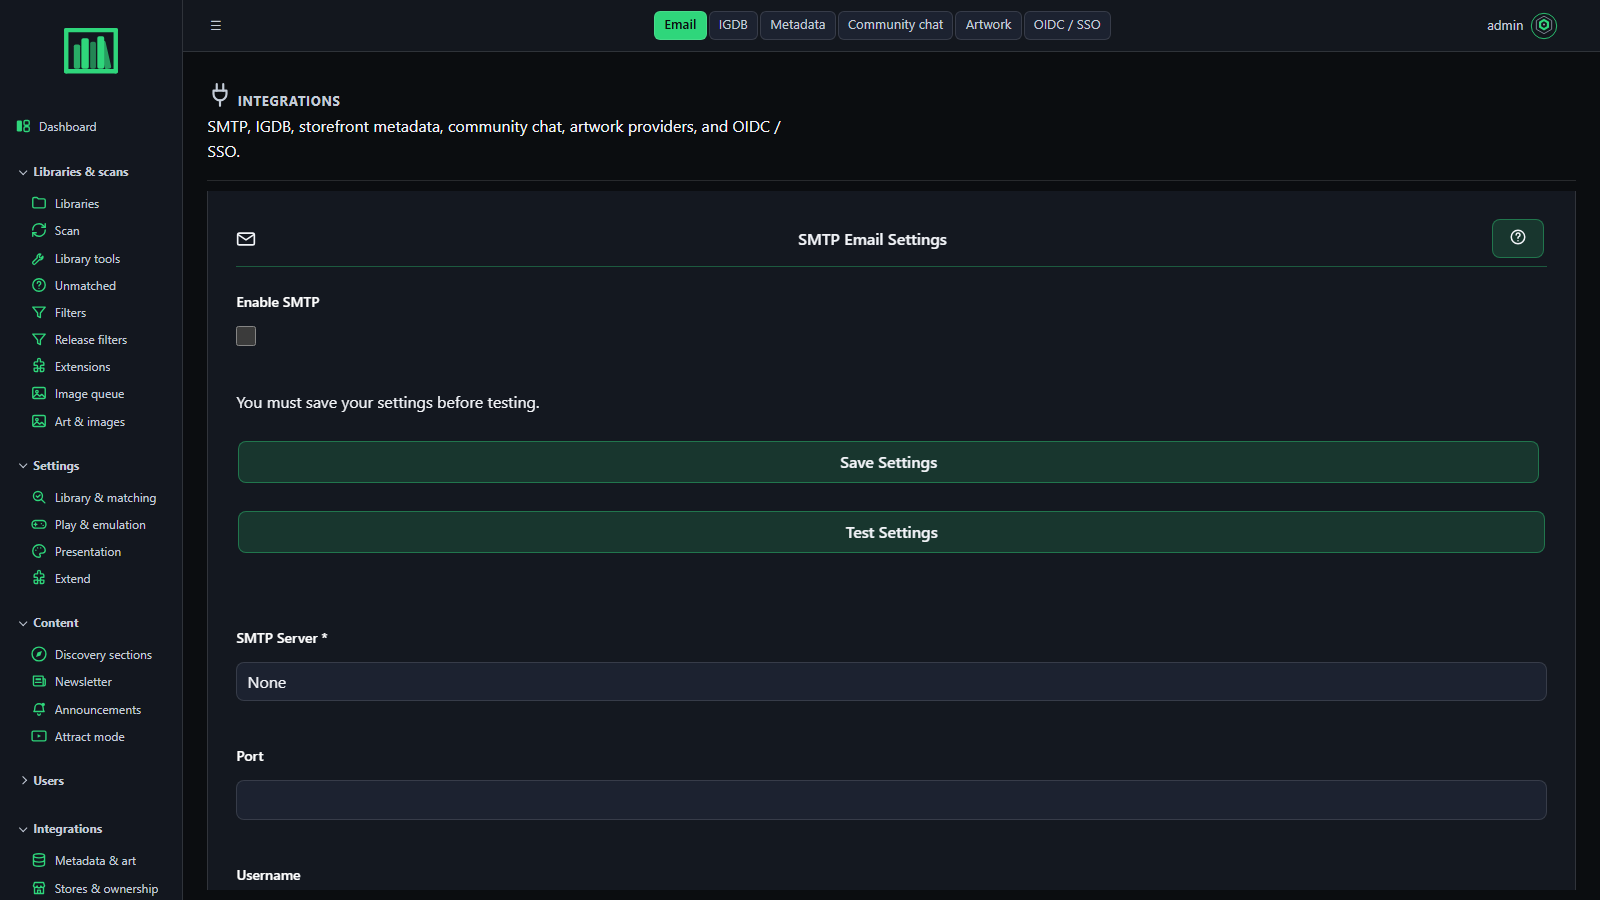
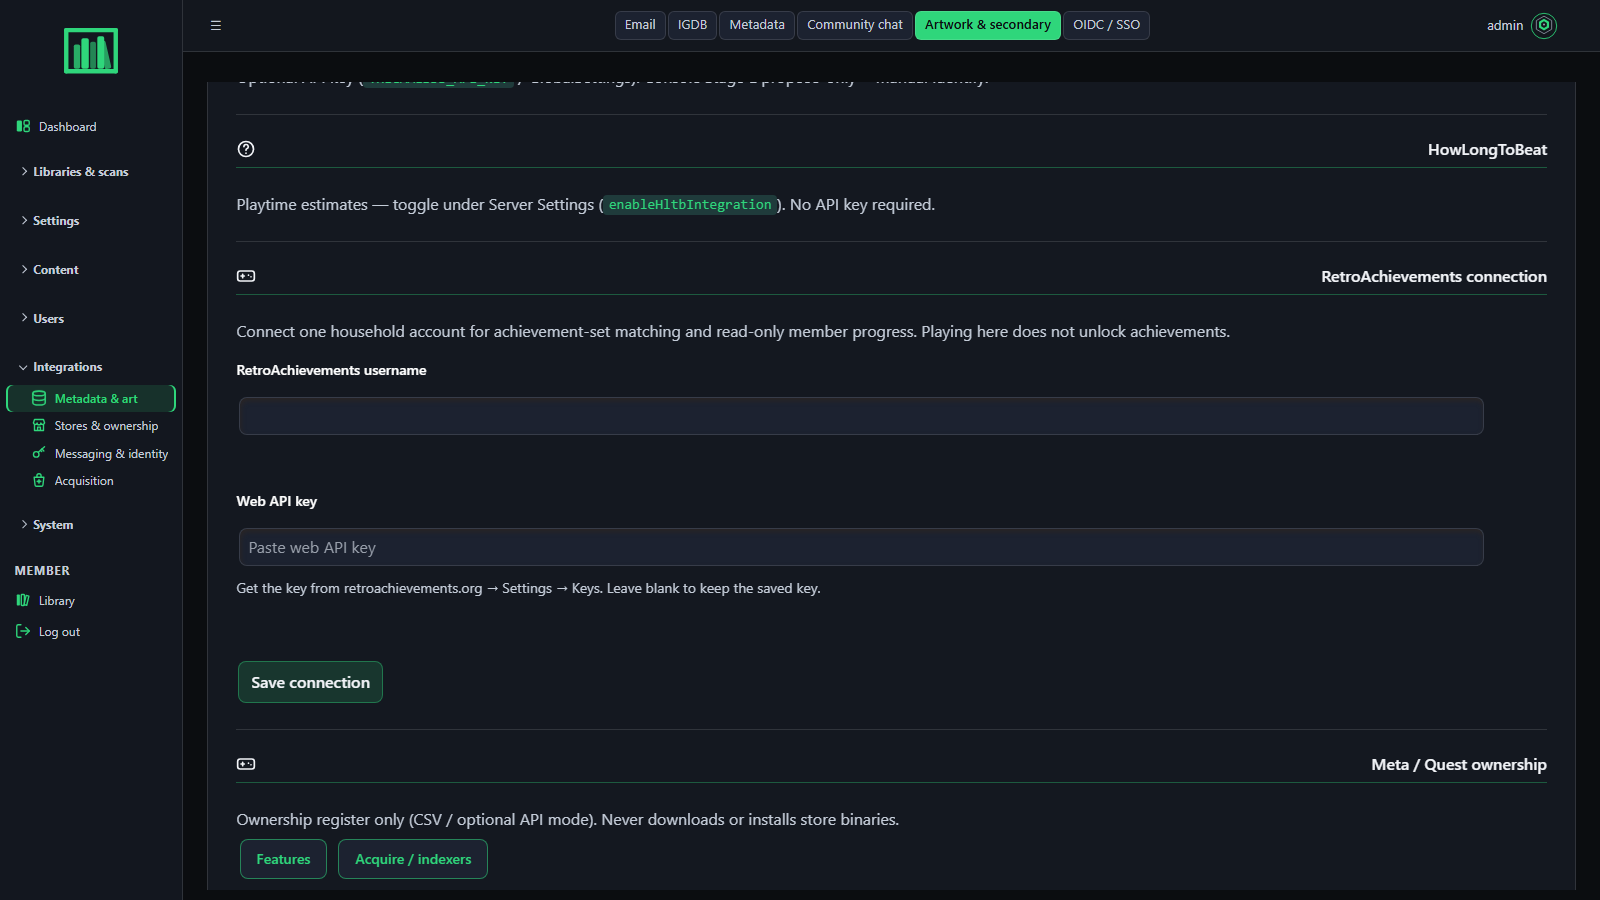
fix(integrations): keep RetroAchievements under artwork

diff --git a/oneirodex/templates/admin/integrations.html b/oneirodex/templates/admin/integrations.html
@@ -36,7 +36,7 @@
                ('igdb', 'IGDB', '#igdb', 'igdb-tab'),
                ('metadata', 'Metadata', '#metadata', 'metadata-tab'),
                ('community', 'Community chat', '#community', 'community-tab'),
-               ('artwork', 'Artwork', '#artwork', 'artwork-tab'),
+               ('artwork', 'Artwork & secondary', '#artwork', 'artwork-tab'),
                ('oidc', 'OIDC / SSO', '#oidc', 'oidc-tab'),
              ],
              active=none,
@@ -96,7 +96,7 @@
             </li>
             <li class="integrations-nav-item nav-item" role="presentation">
                 <button class="integrations-nav-link nav-link" id="artwork-tab" data-bs-toggle="tab" data-bs-target="#artwork" type="button" role="tab" aria-controls="artwork" aria-selected="false">
-                    {{ icons.icon('image') }} Artwork
+                    {{ icons.icon('image') }} Artwork &amp; secondary
                 </button>
             </li>
             <li class="integrations-nav-item nav-item" role="presentation">
@@ -164,6 +164,15 @@
                     <h4 id="steamgriddb">{{ icons.icon('image', size=20) }} SteamGridDB Artwork</h4>
                     {% include 'partials/integrations/steamgriddb_status.html' %}
 
+                    <p class="text-muted mb-2">
+                      Secondary metadata keys and HowLongToBeat are managed in Server Settings.
+                    </p>
+                    <p>
+                      <a class="btn btn-outline-primary btn-sm" href="{{ url_for('admin2.new_server_settings') }}">
+                        Server settings
+                      </a>
+                    </p>
+
                     <hr class="my-4">
                     <h4 id="giantbomb">{{ icons.icon('gamepad', size=20) }} Giant Bomb</h4>
                     <p class="text-muted mb-2">
@@ -171,47 +180,52 @@
                       (<code>GIANTBOMB_API_KEY</code> / GlobalSettings) — deep-linked from
                       Integrations inventory.
                     </p>
-                    <p>
-                      <a class="btn btn-outline-primary btn-sm" href="{{ url_for('admin2.new_server_settings') }}">
-                        Server settings
-                      </a>
-                    </p>
-
                     <hr class="my-4">
                     <h4 id="mobygames">{{ icons.icon('gamepad', size=20) }} MobyGames</h4>
                     <p class="text-muted mb-2">
                       Optional API key (<code>MOBYGAMES_API_KEY</code> / GlobalSettings).
                       Stage E propose-only + manual identify — not Stage D auto-import.
                     </p>
-                    <p>
-                      <a class="btn btn-outline-primary btn-sm" href="{{ url_for('admin2.new_server_settings') }}">
-                        Server settings
-                      </a>
-                    </p>
-
                     <hr class="my-4">
                     <h4 id="thegamesdb">{{ icons.icon('gamepad', size=20) }} TheGamesDB</h4>
                     <p class="text-muted mb-2">
                       Optional API key (<code>THEGAMESDB_API_KEY</code> / GlobalSettings).
                       Console Stage E propose-only + manual identify.
                     </p>
-                    <p>
-                      <a class="btn btn-outline-primary btn-sm" href="{{ url_for('admin2.new_server_settings') }}">
-                        Server settings
-                      </a>
-                    </p>
-
                     <hr class="my-4">
                     <h4 id="hltb">{{ icons.icon('help', size=20) }} HowLongToBeat</h4>
                     <p class="text-muted mb-2">
                       Playtime estimates — toggle under Server Settings
                       (<code>enableHltbIntegration</code>). No API key required.
                     </p>
-                    <p>
-                      <a class="btn btn-outline-primary btn-sm" href="{{ url_for('admin2.new_server_settings') }}">
-                        Server settings
-                      </a>
-                    </p>
+
+                    <hr class="my-4">
+                    <section id="retroachievements" aria-labelledby="retroachievements-heading">
+                      <h4 id="retroachievements-heading">{{ icons.icon('gamepad', size=20) }} RetroAchievements connection</h4>
+                      <p class="text-muted mb-3">
+                        Connect one household account for achievement-set matching and read-only member progress.
+                        Playing here does not unlock achievements.
+                      </p>
+                      <div class="settings-form" id="retroAchievementsSettings">
+                        <div class="form-group">
+                          <label for="ra-admin-username">RetroAchievements username</label>
+                          <input type="text" id="ra-admin-username" class="form-control input-glass" autocomplete="username" maxlength="64">
+                          <small id="ra-username-source" class="text-muted"></small>
+                        </div>
+                        <div class="form-group">
+                          <label for="ra-admin-api-key">Web API key</label>
+                          <input type="password" id="ra-admin-api-key" class="form-control input-glass" autocomplete="new-password" maxlength="512">
+                          <small class="text-muted">Get the key from retroachievements.org → Settings → Keys. Leave blank to keep the saved key.</small>
+                        </div>
+                        <label class="form-group" id="ra-clear-key-row" hidden>
+                          <input type="checkbox" id="ra-clear-key"> Clear the saved API key
+                        </label>
+                        <div class="button-group">
+                          <button type="button" id="ra-save-settings" class="btn btn-primary">Save connection</button>
+                          <span id="ra-save-status" class="text-muted" role="status" aria-live="polite"></span>
+                        </div>
+                      </div>
+                    </section>
 
                     <hr class="my-4">
                     <h4 id="meta_quest">{{ icons.icon('gamepad', size=20) }} Meta / Quest ownership</h4>
@@ -342,6 +356,7 @@
 <script src="{{ 'js/password_visibility.js'|theme_asset }}"></script>
 <script src="{{ 'js/admin_manage_igdb_settings.js'|theme_asset }}"></script>
 <script src="{{ 'js/admin_metadata_providers.js'|theme_asset }}"></script>
+<script src="{{ 'js/admin_retroachievements_settings.js'|theme_asset }}"></script>
 <script src="{{ 'js/integrations_tabs.js'|theme_asset }}"></script>
 
 <script src="{{ url_for('static', filename='js/od_admin_integrations_oidc.js') }}"></script>

diff --git a/oneirodex/setup/default_theme/js/admin_retroachievements_settings.js b/oneirodex/setup/default_theme/js/admin_retroachievements_settings.js
@@ -1,0 +1,87 @@
+/** Admin → Integrations → Artwork & secondary → RetroAchievements. */
+(function () {
+  'use strict';
+
+  const ENDPOINT = '/api/admin/integrations/retroachievements';
+
+  function byId(id) {
+    return document.getElementById(id);
+  }
+
+  function status(message, isError) {
+    const el = byId('ra-save-status');
+    if (!el) return;
+    el.textContent = message || '';
+    el.className = isError ? 'text-danger' : 'text-muted';
+  }
+
+  function applySettings(data) {
+    byId('ra-admin-username').value = data.username || '';
+    byId('ra-admin-api-key').value = '';
+    byId('ra-admin-api-key').placeholder = data.has_key
+      ? 'Key saved — enter a new key to replace it'
+      : 'Paste web API key';
+    byId('ra-username-source').textContent = data.username_source === 'environment'
+      ? 'Using the username from the server environment.'
+      : '';
+
+    const clearRow = byId('ra-clear-key-row');
+    clearRow.hidden = !data.has_key || data.key_source === 'environment';
+    byId('ra-clear-key').checked = false;
+
+    const envOwnsSettings = data.username_source === 'environment' && data.key_source === 'environment';
+    byId('ra-save-settings').disabled = envOwnsSettings;
+    if (envOwnsSettings) status('Connection is managed by the server environment.', false);
+  }
+
+  function readResponse(response) {
+    return response.json().then(function (body) {
+      if (!response.ok || !body || body.ok === false) {
+        throw new Error((body && (body.error || body.message)) || ('HTTP ' + response.status));
+      }
+      return body;
+    });
+  }
+
+  function load() {
+    fetch(ENDPOINT, { credentials: 'same-origin' })
+      .then(readResponse)
+      .then(applySettings)
+      .catch(function () {
+        status('Could not load RetroAchievements settings.', true);
+      });
+  }
+
+  function save() {
+    const button = byId('ra-save-settings');
+    const username = byId('ra-admin-username').value.trim();
+    const apiKey = byId('ra-admin-api-key').value.trim();
+    const body = { username: username };
+    if (apiKey) body.api_key = apiKey;
+    if (byId('ra-clear-key').checked) body.clear_api_key = true;
+
+    button.disabled = true;
+    status('Saving…', false);
+    fetch(ENDPOINT, {
+      method: 'PUT',
+      credentials: 'same-origin',
+      headers: CSRFUtils.getHeaders({ 'Content-Type': 'application/json' }),
+      body: JSON.stringify(body),
+    })
+      .then(readResponse)
+      .then(function (data) {
+        applySettings(data);
+        status('Connection saved.', false);
+      })
+      .catch(function (err) {
+        button.disabled = false;
+        status(err.message || 'Could not save RetroAchievements settings.', true);
+      });
+  }
+
+  document.addEventListener('DOMContentLoaded', function () {
+    if (!byId('retroAchievementsSettings')) return;
+    load();
+    byId('ra-save-settings').addEventListener('click', save);
+  });
+})();

diff --git a/frontend/admin-app/src/pages/IntegrationsPage.tsx b/frontend/admin-app/src/pages/IntegrationsPage.tsx
@@ -112,11 +112,7 @@ export function IntegrationsPage() {
               {group.items.map((item) => (
                 <li
                   key={item.to}
-                  id={
-                    item.to.endsWith('#retro-achievements-settings')
-                      ? undefined
-                      : item.to.split('#')[1]
-                  }
+                  id={item.to.split('#')[1]}
                 >
                   <a className="od-settings-row" href={item.to}>
                     <span className="od-settings-row__title">
@@ -127,11 +123,15 @@ export function IntegrationsPage() {
                 </li>
               ))}
             </ul>
+            {group.id === 'metadata' ? (
+              <div className="od-admin-inventory__group">
+                <h3 className="od-admin-inventory__category">Artwork &amp; secondary</h3>
+                <RetroAchievementsSettingsPanel />
+              </div>
+            ) : null}
           </section>
         ))}
       </div>
-
-      <RetroAchievementsSettingsPanel />
 
       {!inventory && !inventoryError ? (
         <div className="od-admin-panel od-admin-inventory od-admin-panel--stacked">

diff --git a/frontend/admin-app/src/components/navConfig.ts b/frontend/admin-app/src/components/navConfig.ts
@@ -176,13 +176,7 @@ export const INTEGRATION_SECTIONS: SubSection[] = [
         to: '/admin/integrations#artwork',
         icon: 'art',
         title: 'Artwork & secondary',
-        blurb: 'SteamGridDB covers, Giant Bomb, HowLongToBeat.',
-      },
-      {
-        to: '/admin/integrations#retro-achievements-settings',
-        icon: 'emulators',
-        title: 'RetroAchievements',
-        blurb: 'Connect the household account used for achievement sets and member progress.',
+        blurb: 'SteamGridDB covers, Giant Bomb, HowLongToBeat, and RetroAchievements.',
       },
     ],
   },

diff --git a/frontend/admin-app/src/components/SectionTopNav.tsx b/frontend/admin-app/src/components/SectionTopNav.tsx
@@ -17,6 +17,10 @@ const SECTION_HUBS: Record<string, { href: string; label: string }> = {
  */
 export function SectionTopNav() {
   const { pathname, hash } = useLocation()
+  // The Integrations overview already lists every destination as grouped rows.
+  // Adding the same links to the top bar when a row's hash is active duplicates
+  // the Metadata & art buttons on that page.
+  if ((pathname || '').replace(/\/+$/, '') === '/admin/integrations') return null
   const here = findSubSection(pathname, hash)
   if (!here) return null
   const hub = SECTION_HUBS[here.sectionId]

diff --git a/scripts/capture_docs_media.py b/scripts/capture_docs_media.py
@@ -130,6 +130,14 @@ def prep_add_shelf(page) -> None:
     _role(page, "button", "Add shelf", after_ms=1_000)
 
 
+def prep_integrations_artwork(page) -> None:
+    try:
+        page.locator("#retroachievements").scroll_into_view_if_needed(timeout=8_000)
+        page.wait_for_timeout(600)
+    except Exception as exc:  # noqa: BLE001
+        print("    integrations artwork:", type(exc).__name__)
+
+
 # --------------------------------------------------------------------------
 # the surfaces
 # --------------------------------------------------------------------------
@@ -179,7 +187,13 @@ SHOTS: list[Shot] = [
     Shot("admin-settings", "/admin/settings", full_page=True, settle_ms=1_800),
     Shot("admin-scan-match", "/admin/scan_match", full_page=True, settle_ms=1_800),
     Shot("admin-features", "/admin/features", full_page=True, settle_ms=1_800),
-    Shot("admin-integrations", "/admin/integrations", full_page=True, settle_ms=1_800),
+    Shot(
+        "admin-integrations",
+        "/admin/integrations#artwork",
+        prep_integrations_artwork,
+        full_page=True,
+        settle_ms=1_800,
+    ),
     Shot("admin-themes", "/admin/themes", settle_ms=1_800),
     Shot("admin-users", "/admin/users", settle_ms=1_800),
     Shot("admin-invites", "/admin/invites", settle_ms=1_800),

diff --git a/oneirodex/utils/integrations_inventory.py b/oneirodex/utils/integrations_inventory.py
@@ -163,10 +163,10 @@ def build_integrations_inventory() -> list[dict[str, Any]]:
     add(
         id='retroachievements',
         name='RetroAchievements',
-        category='emulation',
-        admin_href='/admin/integrations#retro-achievements-settings',
+        category='artwork',
+        admin_href='/admin/integrations#artwork',
         configured=ra_ok,
-        notes='Configure the household account in Integrations; match systems under Emulators. Member progress is read-only.',
+        notes='Connect the household account under Artwork & secondary; match systems under Emulators. Member progress is read-only.',
     )
     try:
         from oneirodex.utils.hash_identify import base_url as _hash_base, is_enabled as _hash_on

diff --git a/docs/dev/ui-debt-log.md b/docs/dev/ui-debt-log.md
@@ -16,7 +16,7 @@ Status: `open` | `in_progress` | `done` | `deferred` | `wontfix`
 | ID | Area | Symptom (human) | Why it keeps coming back | Wave | Status |
 |---|---|---|---|---|---|
 | UID-067 | Admin emulator firmware | Operators with a local firmware folder had to copy it to a server-visible collection before installing matching files | The collection scanner reads server paths, while the operator's files are on their workstation. **Done 2026-10-07:** Admin → Emulation accepts a local folder and sends only firmware names required by configured cores through the existing upload API; it skips installed files and stops on ambiguous duplicate names. The documented CLI import also has a strict preflight mode. | Firmware upload | done |
-| UID-068 | Admin Integrations / RetroAchievements | Docker and Unraid operators could not connect RetroAchievements without changing environment variables | **Done 2026-10-08:** Admin → Integrations → RetroAchievements saves the household username and API key in persistent server settings. Environment values retain precedence; the key is never returned to the browser. | Integrations setup | done |
+| UID-068 | Admin Integrations / RetroAchievements | Docker and Unraid operators could not connect RetroAchievements without changing environment variables | **Done 2026-10-08:** Admin → Integrations → Metadata & art → Artwork & secondary has the household connection form; its tab link no longer falls through to SMTP, and repeated Server settings buttons were consolidated. Environment values retain precedence; the key is never returned to the browser. | Integrations setup | done |
 | UID-069 | Library / Discover chrome | Store setup prompt sat too far below the top navigation; Library tiles did not form a centered, uniform-width group; Discover shelf arrows disappeared during tile hover, blocking backward movement | **In progress 2026-10-08:** reduced the top reserve when the store prompt is present, centered fixed-width tile tracks, and kept shelf arrows available over hovered tiles. Screenshot capture and human visual confirmation remain pending against a populated build. | UI corrections | in_progress |
 | UID-070 | Member hubs, Help, trailer player, and admin dashboard | Systems intro columns looked uneven; Ways to Play left unused columns; cover art was cropped into 3:4; VR showed the retired GameTheca fallback; trailer player lacked a recognizable CRT; rail mark was small; Help lacked visible bullets and readable hierarchy; rail footer added a box; newly added dashboard widgets could be appended after hidden layout rows | **In progress 2026-10-08:** paired the Systems intro panels, collapsed empty Ways to Play tracks, standardised cover tiles to contain 2:3 artwork, resolve VR covers through game art and suppress the retired placeholder, added the generated CRT frame, enlarged the rail mark, improved shared Help list hierarchy, removed the rail footer control, and append dashboard widgets after visible content. Populated visual capture remains pending. | UI corrections | in_progress |
 | UID-071 | Shared menus and admin page chrome | Dropdown menus looked unrelated and stayed open after clicking elsewhere; scan/filter actions were buried in page cards; filter page had nested frames; Themes page spacing differed from Libraries; Art Studio showed a nonfunctional generic skin label; Ops status text could be clipped by a short widget | **In progress 2026-10-08:** standardized menu surfaces and item controls, added outside-click/Escape dismissal for menu dropdowns, moved Scan Jobs actions beside the table while Unmatched/filter actions remain in the THN, removed redundant filter frames and the empty Art Studio label, aligned Themes spacing to the shared admin page scale, and raised the status widget minimum height. Populated visual capture remains pending. | UI corrections | in_progress |

diff --git a/docs/admin/settings-modules.md b/docs/admin/settings-modules.md
@@ -4,7 +4,7 @@
 
 Admin settings use **grouped rows** at `/admin/settings` (one sheet, section headings, whole row → destination; `?section=` redirects). In the rail, Settings unfolds into four icon sub-sections whose pages are buttons in the top bar — see [navigation.md](navigation.md). Chrome is the React admin top bar (`frontend/admin-app`); many forms remain Jinja until migrated. Live React bodies include Dashboard, Libraries/Scans hubs, Themes, Plugins, Announcements, **Support inbox**, and the **Integrations hub** (the same grouped rows as Settings: Metadata & art · Stores & ownership · Messaging & identity · Acquisition, with deep links into classic forms).
 
-**Integrations inventory API:** `GET /api/admin/integrations/inventory` (admin) returns `{integrations[{id,name,category,status,configured,enabled,admin_href,settings_href,notes}], count, hub_href}` covering IGDB, SteamGridDB, Giant Bomb, HLTB, Meta/Quest, SMTP, OIDC, Support, community chat, LiveKit, Arr connectors, and ownership register links — so the hub is not IGDB-only. The React Integrations page renders a **Provider inventory** grouped by category (with status + notes) under the grouped rows. Classic `/admin/integrations` artwork tab anchors (`#steamgriddb`, `#giantbomb`, `#hltb`, `#meta_quest`, `#ownership`, `#livekit`, `#support`, `#indexers`, `#community`, `#email`, `#igdb`) deep-link the same surfaces.
+**Integrations inventory API:** `GET /api/admin/integrations/inventory` (admin) returns `{integrations[{id,name,category,status,configured,enabled,admin_href,settings_href,notes}], count, hub_href}` covering IGDB, SteamGridDB, Giant Bomb, HLTB, RetroAchievements, Meta/Quest, SMTP, OIDC, Support, community chat, LiveKit, Arr connectors, and ownership register links — so the hub is not IGDB-only. The React Integrations page renders a **Provider inventory** grouped by category (with status + notes) under the grouped rows. RetroAchievements connects under **Integrations → Metadata & art → Artwork & secondary**; the inventory deep-link uses the supported `#artwork` tab. Classic `/admin/integrations` artwork tab anchors (`#steamgriddb`, `#giantbomb`, `#hltb`, `#retroachievements`, `#meta_quest`, `#ownership`, `#livekit`, `#support`, `#indexers`, `#community`, `#email`, `#igdb`) deep-link the same surfaces.
 
 **Fresh-install setup:** The six-step wizard creates the admin, optionally configures SMTP and feature preferences, optionally collects IGDB plus Steam Web API, SteamGridDB, Giant Bomb, MobyGames, and TheGamesDB credentials, and can save OIDC issuer/client details without enabling SSO. It then offers to create a first library and queue its initial scan. The API-key fields are opt-in; empty values preserve existing credentials and secrets are never rendered back into the form. HowLongToBeat can be toggled without a key. OIDC remains disabled during setup so the new admin can verify its issuer and callback before enabling an authentication provider. Keyless catalogue sources continue to work without setup. Integrations that require container environment values (for example LiveKit and *arr endpoints) remain visible in the Integrations inventory and require deployment configuration. Every step can be skipped; setup can finish without a library.
 

diff --git a/docs/admin/navigation.md b/docs/admin/navigation.md
@@ -18,18 +18,19 @@ sub-section is one rail row; the pages inside it are *not* in the rail.
 | Section | Sub-sections (pages) |
 |---|---|
 | Settings | **Library & matching** (Server settings, Scan / match policy, ROM reference sets, Quality profiles, Storage) · **Play & emulation** (Emulators, Remote play) · **Presentation** (Themes, Art studio, Detail layout, Attract mode) · **Extend** (AI assist, Plugins & exports) |
-| Integrations | **Metadata & art** (IGDB, Artwork & secondary) · **Stores & ownership** (Store connections, Meta / Quest) · **Messaging & identity** (SMTP, OIDC / SSO, Community chat, Chat emoji, LiveKit voice) · **Acquisition** (Arr module, Indexers) |
+| Integrations | **Metadata & art** (IGDB, Artwork & secondary, including the RetroAchievements connection) · **Stores & ownership** (Store connections, Meta / Quest) · **Messaging & identity** (SMTP, OIDC / SSO, Community chat, Chat emoji, LiveKit voice) · **Acquisition** (Arr module, Indexers) |
 
 Each page has one home. The Support inbox is under Users; ES-DE / Pegasus export
 is part of Plugins & exports.
 
 ## Top bar
 
-On any page inside a Settings or Integrations sub-section, the top bar shows that
+On Settings pages and Integration destinations, the top bar shows that
 sub-section's pages as icon buttons (the current page is highlighted) plus a way
-back to the section's overview (**All settings** / **Overview**). The overview
-pages, `/admin/settings` and `/admin/integrations`, list every group as rows —
-the same layout on both.
+back to the section's overview (**All settings** / **Overview**). The
+`/admin/settings` and `/admin/integrations` overview pages list each group as
+rows; Integrations keeps its artwork tab controls in one place to avoid
+duplicating them in the top bar.
 
 ## Page layout
 

diff --git a/docs/runbooks/retroachievements.md b/docs/runbooks/retroachievements.md
@@ -11,8 +11,9 @@ shell — and the member copy says so.
 
 1. Sign in at retroachievements.org and open **Settings → Keys** for the *web API
    key* (not the Connect key).
-2. In Oneirodex, open **Admin → Integrations → RetroAchievements** and save the
-   account username and web API key. The key is stored in the Oneirodex database
+2. In Oneirodex, open **Admin → Integrations → Metadata & art → Artwork &
+   secondary → RetroAchievements connection** and save the account username and
+   web API key. The key is stored in the Oneirodex database
    and is never shown after saving. This works for Docker and Unraid installs
    without editing container environment variables. Environment values, when
    present, take precedence over the saved admin settings.
